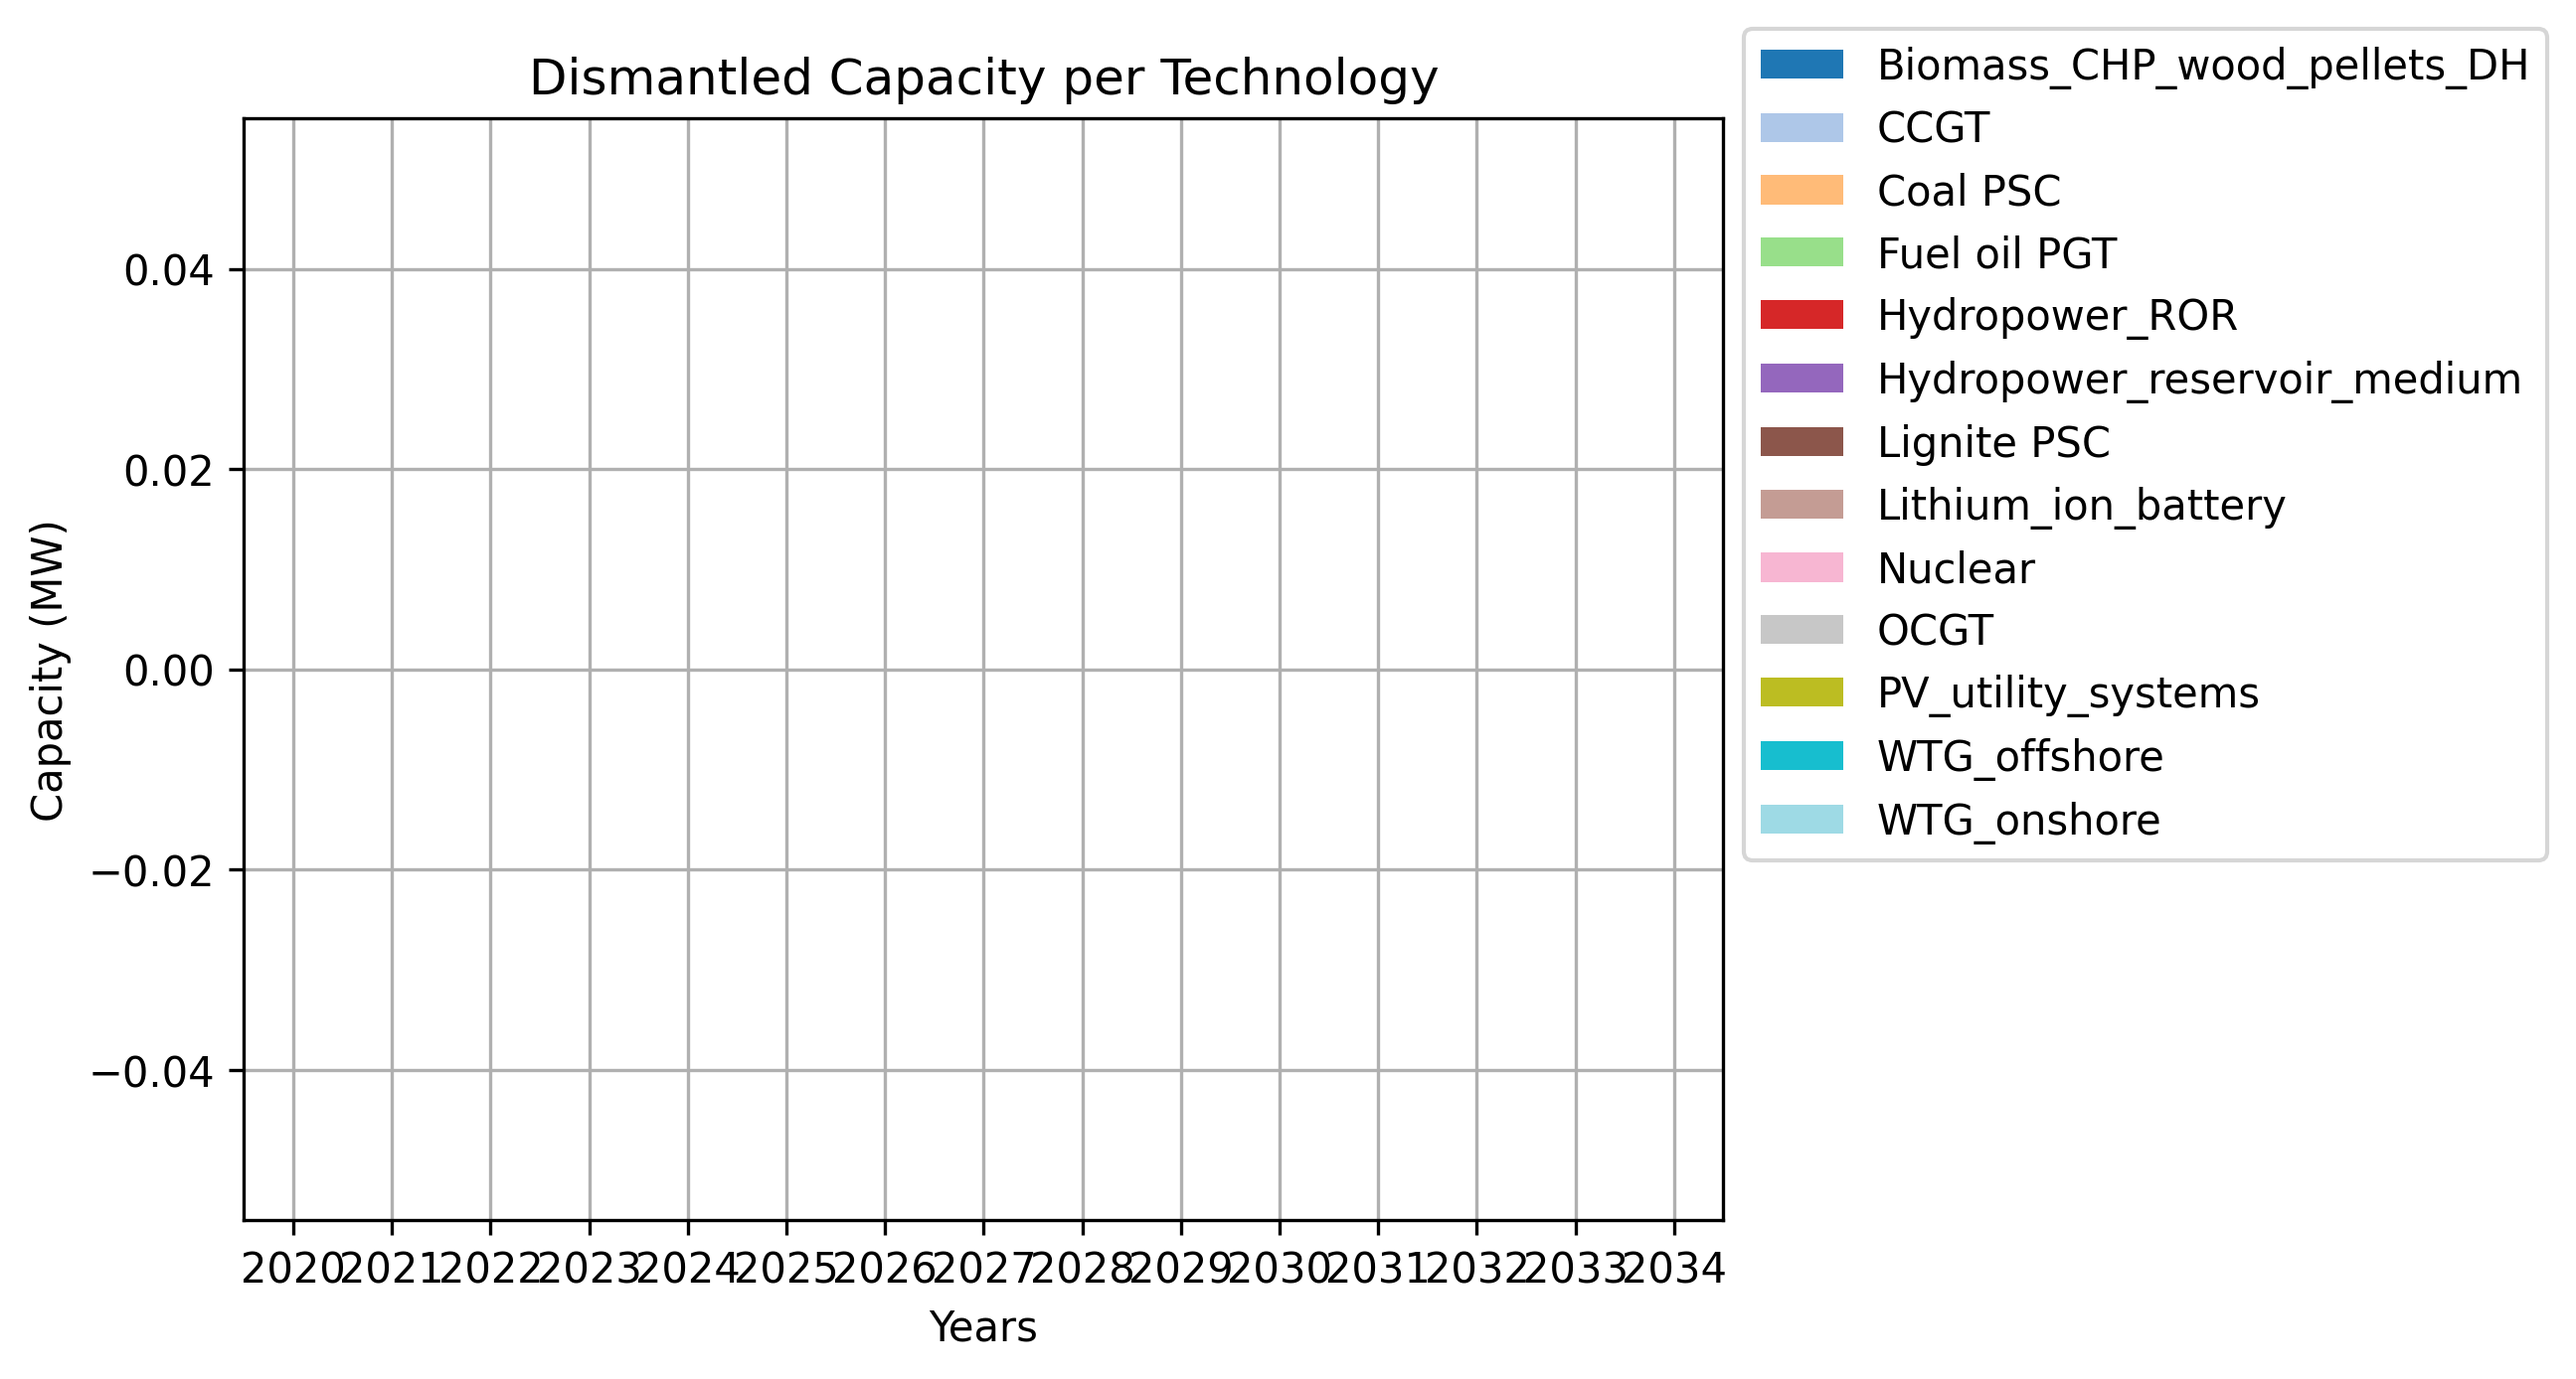
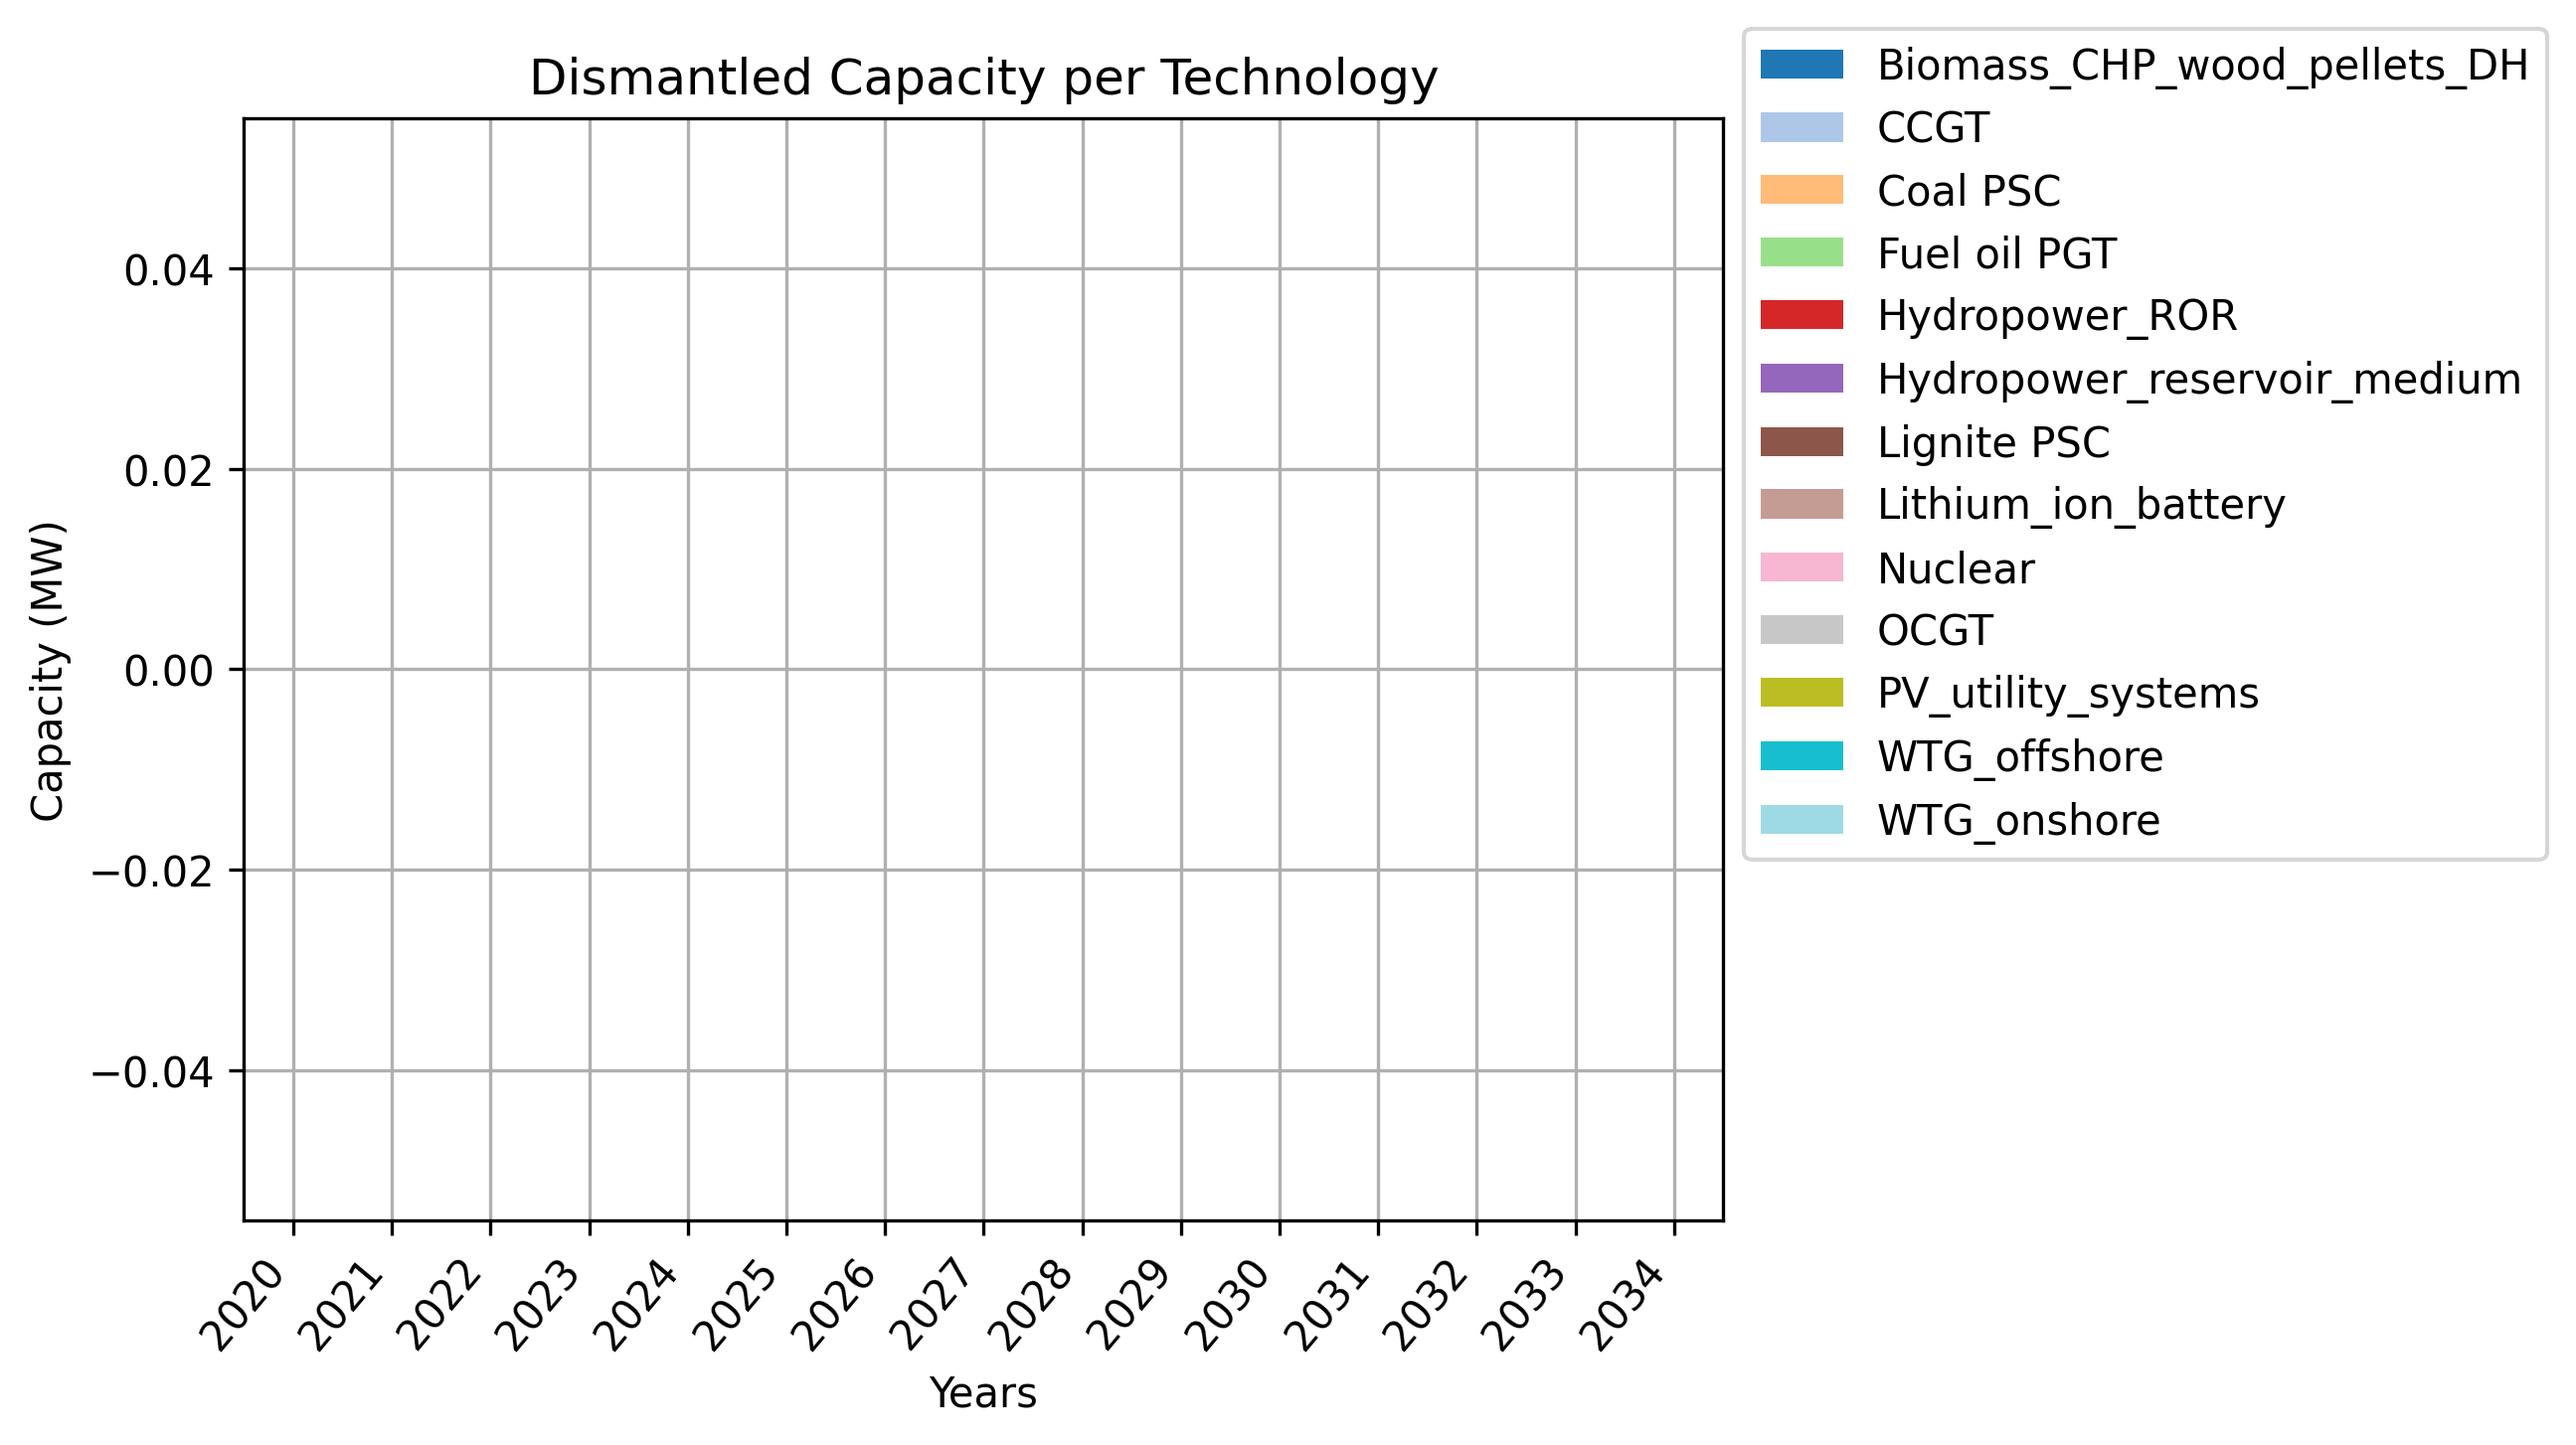
improving graphs

diff --git a/emlabpy/plots/plots.py b/emlabpy/plots/plots.py
@@ -20,10 +20,10 @@ def plot_investments_and_NPV_per_iteration(candidate_plants_project_value, insta
     ax1.set_xlabel('Iterations', fontsize='medium')
     ax1.set_ylabel('Project value', fontsize='medium')
     ax2.set_ylabel('Investments', fontsize='medium')
-    ax1.set_title('Investments and NPV per iterations')
+    ax1.set_title('Investments and NPV per iterations '+ str(test_year))
     ax1.legend(candidate_plants_project_value.columns.values.tolist(), fontsize='medium', loc='upper left',
-               bbox_to_anchor=(1, 1.1))
-    fig1.savefig(path_to_plots + '/' + 'Investments and NPV per iterations' + str(test_year)+ '.png', bbox_inches='tight', dpi=300)
+               bbox_to_anchor=(1.2, 1.1))
+    fig1.savefig(path_to_plots + '/' + 'Investments and NPV per iterations_ ' + str(test_year)+ '.png', bbox_inches='tight', dpi=300)
 
 
 def plot_annual_to_be_decommissioned_capacity(plot_annual_to_be_decommissioned_capacity, years_to_generate,
@@ -47,7 +47,9 @@ def plot_decommissions(annual_decommissioned_capacity, years_to_generate, path_t
     fig5, axs5 = plt.subplots()
     axs5 = annual_decommissioned_capacity.plot.bar(stacked=True, rot=0, colormap='tab20', grid=True, legend=False)
     axs5.set_axisbelow(True)
-    axs5.set_xlabel('Years', fontsize='medium')
+    axs5.set_xlabel('Years', fontsize='medium' )
+    for label in axs5.get_xticklabels(which='major'):
+        label.set(rotation=50, horizontalalignment='right')
     axs5.set_ylabel('Capacity (MW)', fontsize='medium')
     # plt.ylim([-4.3e5, 5.5e5])
     axs5.legend(fontsize='medium', loc='upper left', bbox_to_anchor=(1, 1.1))
@@ -63,10 +65,14 @@ def plot_investments(annual_installed_capacity, annual_commissioned, years_to_ge
     annual_installed_capacity.plot.bar(ax=axs6[0],stacked=True, rot=0, colormap='tab20', grid=True, legend=False)
     annual_commissioned.plot.bar(ax=axs6[1],stacked=True, rot=0, colormap='tab20', grid=True, legend=False)
     axs6[0].set_axisbelow(True)
-    axs6[1].set_xlabel('Years', fontsize='medium',rotation = 60)
+    axs6[1].set_xlabel('Years', fontsize='medium')
+    for label in axs6[0].get_xticklabels(which='major'):
+        label.set(rotation=50, horizontalalignment='right')
+    for label in axs6[1].get_xticklabels(which='major'):
+        label.set(rotation=50, horizontalalignment='right')
     axs6[0].set_ylabel('Invested capacity (MW)', fontsize='small')
     axs6[1].set_ylabel('Investments installed (MW)', fontsize='small')
-    plt.legend(fontsize='medium', loc='upper left', bbox_to_anchor=(1, 1.1))
+    plt.legend(fontsize='medium', loc='upper left', bbox_to_anchor=(1, 1.5))
     axs6[0].set_title('Capacity Investments per Technology')
     fig6.savefig(path_to_plots + '/' + 'Capacity Investments.png', bbox_inches='tight', dpi=300)
 
@@ -87,6 +93,7 @@ def power_plants_status(number_per_status , path_to_plots):
     axs8 = number_per_status.plot.bar(stacked=True, rot=0, colormap='tab20', grid=True, legend=False)
     axs8.set_axisbelow(True)
     plt.xlabel('Years', fontsize='medium')
+    plt.xticks(rotation = 60)
     plt.ylabel('Capacity per status (MW)', fontsize='medium')
     plt.legend(fontsize='medium', loc='upper left', bbox_to_anchor=(1, 1.1))
     axs8.set_title('Power plants status')
@@ -100,7 +107,7 @@ def power_plants_last_year_status(power_plants_last_year_status , path_to_plots,
     plt.xlabel('Years', fontsize='medium')
     plt.ylabel('Capacity per status (MW)', fontsize='medium')
     plt.legend(fontsize='medium', loc='upper left', bbox_to_anchor=(1, 1.1))
-    axs9.set_title('Power plants status' +str(last_year))
+    axs9.set_title('Power plants status ' +str(last_year))
     fig9 = axs9.get_figure()
     fig9.savefig(path_to_plots + '/' + 'Power plants status ' +str(last_year) +'.png', bbox_inches='tight', dpi=300)
 
@@ -354,9 +361,9 @@ def generate_plots():
 
     unique_technologies = reps.get_unique_technologies_names()
 
-    years_to_generate = list(range(reps.start_simulation_year, reps.current_year)) # control the current year
+    years_to_generate = list(range(reps.start_simulation_year, reps.current_year + 1)) # control the current year
 
-    years_to_generate_and_build =  list(range(reps.start_simulation_year, reps.current_year + reps.max_permit_build_time))
+    years_to_generate_and_build =  list(range(reps.start_simulation_year, reps.current_year + 1 + reps.max_permit_build_time))
     years_ahead_to_generate = [x + reps.lookAhead for x in years_to_generate]
     df_zeros = np.zeros(shape=(len(years_to_generate), len(unique_technologies)))
     ticks = [i - reps.start_simulation_year for i in years_to_generate]

diff --git a/emlabpy/util/clock.py b/emlabpy/util/clock.py
@@ -79,15 +79,15 @@ try:
             Current_year = next(int(i['parameter_value']) for i in db_emlab.query_object_parameter_values_by_object_class_and_object_name(class_name, object_name) \
                                 if i['parameter_name'] == 'CurrentYear')
             updated_year = step + Current_year
-            # if updated_year >= final_year:
-            #     print("final year achieved" + str(final_year))
-            #     update_years_file(updated_year , lookAhead, final_year) # need to update the file to make the loop stop
-            # else:
-            db_emlab.import_object_parameter_values([(class_name, object_name, object_parameter_value_name, new_tick, '0')])
-            db_emlab.import_object_parameter_values([(class_name, object_name, "CurrentYear", updated_year, '0')])
-            update_years_file(updated_year , lookAhead, final_year)
-            db_emlab.commit('Clock increment')
-            print('Done incrementing clock (tick +' + str(step) + '), resetting invest file and years file')
+            if updated_year >= final_year:
+                print("final year achieved " + str(final_year))
+                update_years_file(updated_year , lookAhead, final_year) # need to update the file to make the loop stop
+            else:
+                db_emlab.import_object_parameter_values([(class_name, object_name, object_parameter_value_name, new_tick, '0')])
+                db_emlab.import_object_parameter_values([(class_name, object_name, "CurrentYear", updated_year, '0')])
+                update_years_file(updated_year , lookAhead, final_year)
+                db_emlab.commit('Clock increment')
+                print('Done incrementing clock (tick +' + str(step) + '), resetting invest file and years file')
     else:
         print('No mode specified.')
 except Exception:

diff --git a/emlabpy/util/next_year.py b/emlabpy/util/next_year.py
@@ -1,0 +1,10 @@
+
+def update_years_file(current_year , lookAhead, final_year):
+    fieldnames = ['current', 'future', "final"]
+    print("updated years file")
+    #TODO dont hard code the path, once the spine bug is fixed. then it can be exported to the output folder.
+    # the clock is executed in the util folder. So save the results in the parent folder: emlabpy
+    complete_path =  os.path.join(os.path.dirname(os.getcwd()),  globalNames.years_path)
+    with open(complete_path, 'w') as csvfile:
+        csvwriter = csv.writer(csvfile, delimiter ='/')
+        csvwriter.writerow([current_year, (current_year + lookAhead), final_year])
